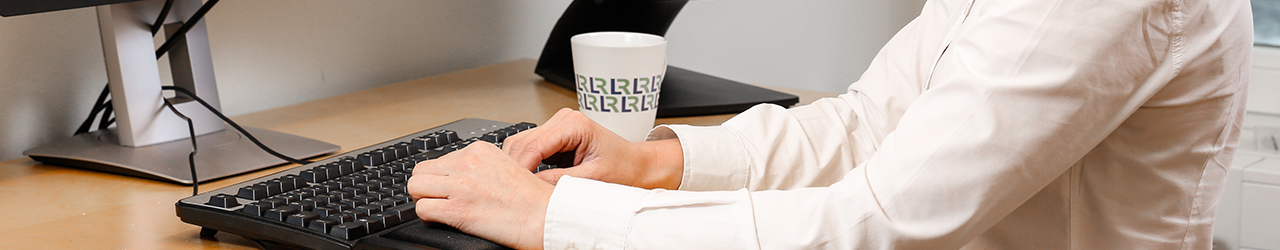
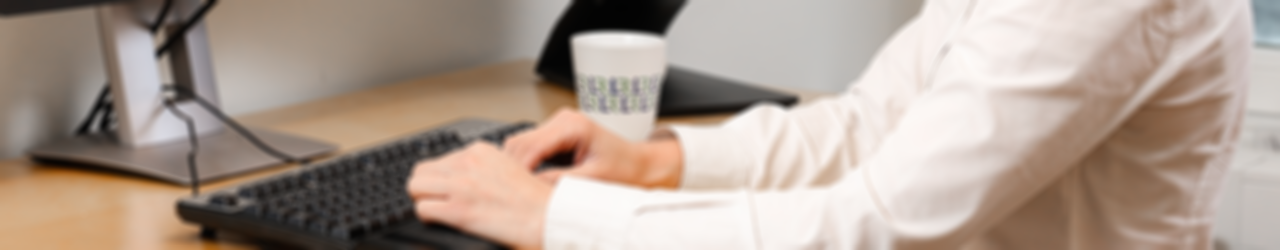
added media querys to positions.vue and added blur to headerimages

diff --git a/src/components/Positions.vue b/src/components/Positions.vue
@@ -108,4 +108,13 @@ export default {
             margin-left:5px; 
         }
     }
+    @media screen and (max-width: $tablet - 1px) {
+        .positionsInfo {
+        flex-direction:column;
+        img {
+            width:100%;
+            margin-top:20px;  
+            } 
+        }
+    }
 </style>
